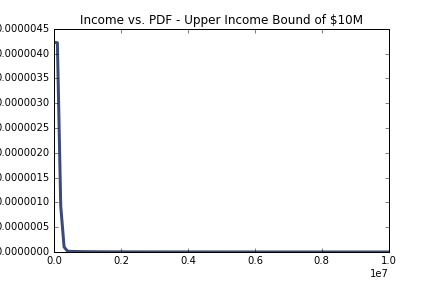
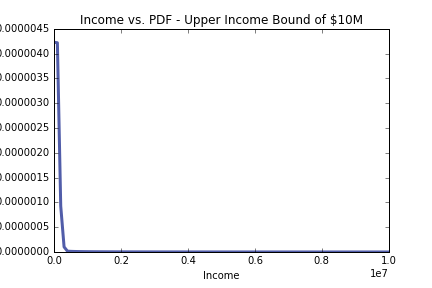
updated charts in hh income question

Changed region(s): [[0.1204, 0.125, 0.9028, 0.875], [0.4514, 0.9375, 0.5718, 0.9688]]

diff --git a/statistics/6-1-household_income.md b/statistics/6-1-household_income.md
@@ -90,15 +90,17 @@ To investigate the impacts of using a higher income bound, I reran the analysis 
 sampPdf = thinkstats2.EstimatedPdf(samp, label='Upper bound: $1M')
 thinkplot.Pdf(sampCdf)
 plt.title('Income vs. PDF - Upper Income Bound of $1M')
+plt.xlabel('Income')
+plt.ylabel('PDF')
 plt.savefig('../../dsp/img/ex6_pdf_1M.png')
-thinkplot.Show(xlabel='Income', ylabel='PDF')
 
 # plot PDF of upper bound = $10M
 sampHigherPdf = thinkstats2.EstimatedPdf(samp_higher, label = 'Upper bound: $10M')
 thinkplot.Pdf(sampHigherPdf)
 plt.title('Income vs. PDF - Upper Income Bound of $10M')
+plt.xlabel('Income')
+plt.ylabel('PDF')
 plt.savefig('../../dsp/img/ex6_pdf_10M.png')
-thinkplot.Show(xlabel='Income', ylabel='PDF')
 ```
 
 <img src="../img/ex6_pdf_1M.png">
